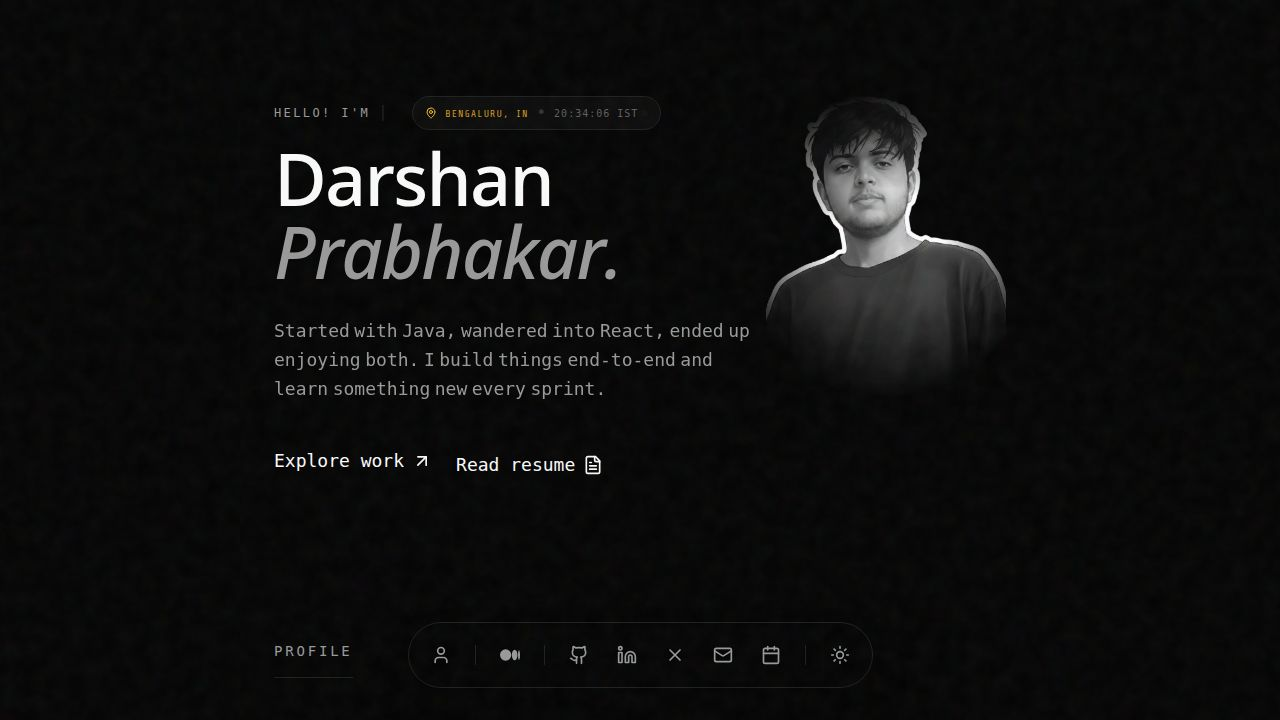
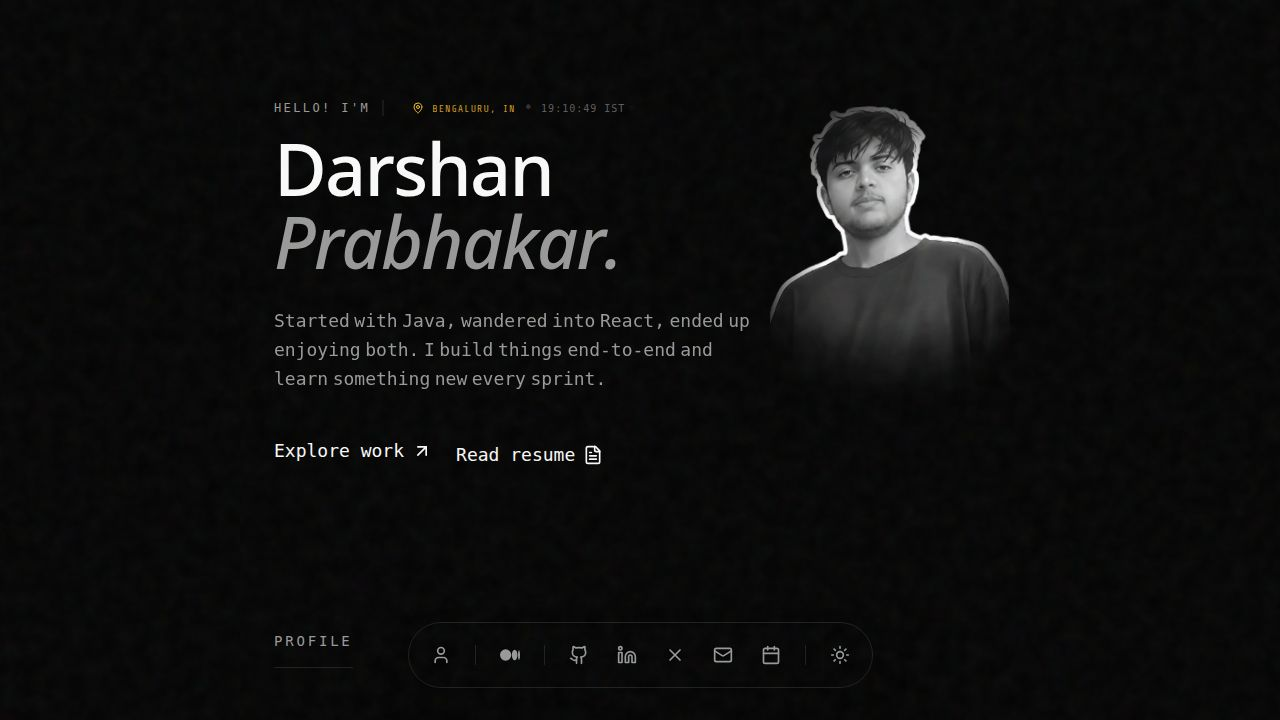
Refine hero and experience sections with minimalist styling and 3D effects
Updates the Hero section to include a 3D tilt effect on the profile photo and refines the styling of the location/clock display. The Experience section's date badges are simplified to plain text, removing the pill-like styling.

Replit-Commit-Author: Agent
Replit-Commit-Session-Id: 4c233b10-98d4-4e3e-a763-c707ed23fbd0
Replit-Commit-Checkpoint-Type: full_checkpoint
Replit-Commit-Event-Id: c2a90140-08be-45f9-986d-aa31397feca5
Replit-Commit-Screenshot-Url: https://storage.googleapis.com/screenshot-production-us-central1/6399864e-1908-4707-aab4-f015279bb63a/4c233b10-98d4-4e3e-a763-c707ed23fbd0/eXubchA
Replit-Helium-Checkpoint-Created: true

diff --git a/client/src/components/sections/Hero.tsx b/client/src/components/sections/Hero.tsx
@@ -1,4 +1,4 @@
-import { motion, AnimatePresence } from "framer-motion";
+import { motion, useMotionValue, useTransform, useSpring } from "framer-motion";
 import resumeData from "@/data/resume.json";
 import { ArrowUpRight, FileText, MapPin } from "lucide-react";
 import LiveClock from "@/components/LiveClock";
@@ -53,6 +53,28 @@ function InteractiveName({ text }: { text: string }) {
 
 export default function Hero() {
   const [isHoveringPhoto, setIsHoveringPhoto] = useState(false);
+  
+  // 3D Tilt Logic
+  const x = useMotionValue(0);
+  const y = useMotionValue(0);
+  
+  const rotateX = useSpring(useTransform(y, [0, 300], [12, -12]), { stiffness: 300, damping: 30 });
+  const rotateY = useSpring(useTransform(x, [0, 240], [-12, 12]), { stiffness: 300, damping: 30 });
+  
+  const shadowX = useTransform(x, [0, 240], [15, -15]);
+  const shadowY = useTransform(y, [0, 300], [15, -15]);
+
+  function handleMouse(event: React.MouseEvent) {
+    const rect = event.currentTarget.getBoundingClientRect();
+    x.set(event.clientX - rect.left);
+    y.set(event.clientY - rect.top);
+  }
+
+  function handleMouseLeave() {
+    setIsHoveringPhoto(false);
+    x.set(120);
+    y.set(150);
+  }
 
   return (
     <section id="hero" className="relative">
@@ -72,7 +94,7 @@ export default function Hero() {
                 transition={{ duration: 0.8, repeat: Infinity, ease: "steps(2)" }}
                 className="w-[2px] h-4 bg-foreground/50"
               />
-              <div className="flex items-center gap-2 ml-4 px-3 py-1 bg-muted/30 rounded-full border border-border">
+              <div className="flex items-center gap-2 ml-4">
                 <MapPin className="h-3 w-3 text-[#fbbf24]" />
                 <span className="text-[10px] tracking-[0.1em] text-[#fbbf24]/80" style={{ fontFamily: "'Share Tech Mono', monospace" }}>BENGALURU, IN</span>
                 <span className="text-muted-foreground/30">•</span>
@@ -142,11 +164,18 @@ export default function Hero() {
         </div>
 
         <div 
-          className="relative group"
+          className="relative group cursor-none"
+          onMouseMove={handleMouse}
           onMouseEnter={() => setIsHoveringPhoto(true)}
-          onMouseLeave={() => setIsHoveringPhoto(false)}
+          onMouseLeave={handleMouseLeave}
+          style={{ perspective: "800px" }}
         >
           <motion.div
+            style={{ 
+              rotateX, 
+              rotateY,
+              transformStyle: "preserve-3d"
+            }}
             animate={isHoveringPhoto ? {
               boxShadow: "0 0 20px 2px rgba(251, 191, 36, 0.3)",
               transition: { delay: 0.2 }
@@ -154,11 +183,13 @@ export default function Hero() {
               boxShadow: "0 0 0px 0px transparent"
             }}
             className="relative overflow-hidden"
-            style={{
-              maskImage: "radial-gradient(circle at center, black 30%, transparent 80%)",
-              WebkitMaskImage: "radial-gradient(circle at center, black 30%, transparent 80%)"
-            }}
           >
+            <motion.div
+              className="absolute inset-0 pointer-events-none z-[-1]"
+              style={{
+                boxShadow: useTransform([shadowX, shadowY], ([sx, sy]) => `${sx}px ${sy}px 30px rgba(0,0,0,0.5)`),
+              }}
+            />
             <motion.img
               src="/images/darshan.png"
               alt="Darshan Prabhakar"
@@ -174,6 +205,12 @@ export default function Hero() {
                 x: 0
               }}
               className="w-60 h-75 object-cover object-top"
+              style={{
+                maskImage: "linear-gradient(to top, transparent 0%, black 25%, black 75%, black 100%), radial-gradient(ellipse at center, black 40%, transparent 85%)",
+                WebkitMaskImage: "linear-gradient(to top, transparent 0%, black 25%, black 75%, black 100%), radial-gradient(ellipse at center, black 40%, transparent 85%)",
+                maskComposite: "intersect",
+                WebkitMaskComposite: "source-in"
+              }}
             />
           </motion.div>
         </div>

diff --git a/client/src/components/sections/Experience.tsx b/client/src/components/sections/Experience.tsx
@@ -56,20 +56,10 @@ export default function Experience() {
                     </div>
                   </div>
                   
-                  {/* Calendar Page Flip Animation */}
-                  <motion.div 
-                    whileHover={{ rotateX: -180 }}
-                    transition={{ duration: 0.6 }}
-                    style={{ transformStyle: "preserve-3d" }}
-                    className="shrink-0 relative h-8 w-32 cursor-pointer"
-                  >
-                    <div className="absolute inset-0 text-xs font-mono text-muted-foreground bg-muted px-3 py-1.5 rounded-full border border-border flex items-center justify-center backface-hidden">
-                      {exp.date}
-                    </div>
-                    <div className="absolute inset-0 text-xs font-mono text-background bg-foreground px-3 py-1.5 rounded-full border border-foreground flex items-center justify-center [transform:rotateX(180deg)] backface-hidden">
-                      Flipping...
-                    </div>
-                  </motion.div>
+                  {/* Bare text date instead of pill */}
+                  <div className="shrink-0 text-xs font-mono text-muted-foreground">
+                    {exp.date}
+                  </div>
                 </div>
 
                 <div className="h-[1px] bg-gradient-to-r from-border via-border/50 to-transparent" />
